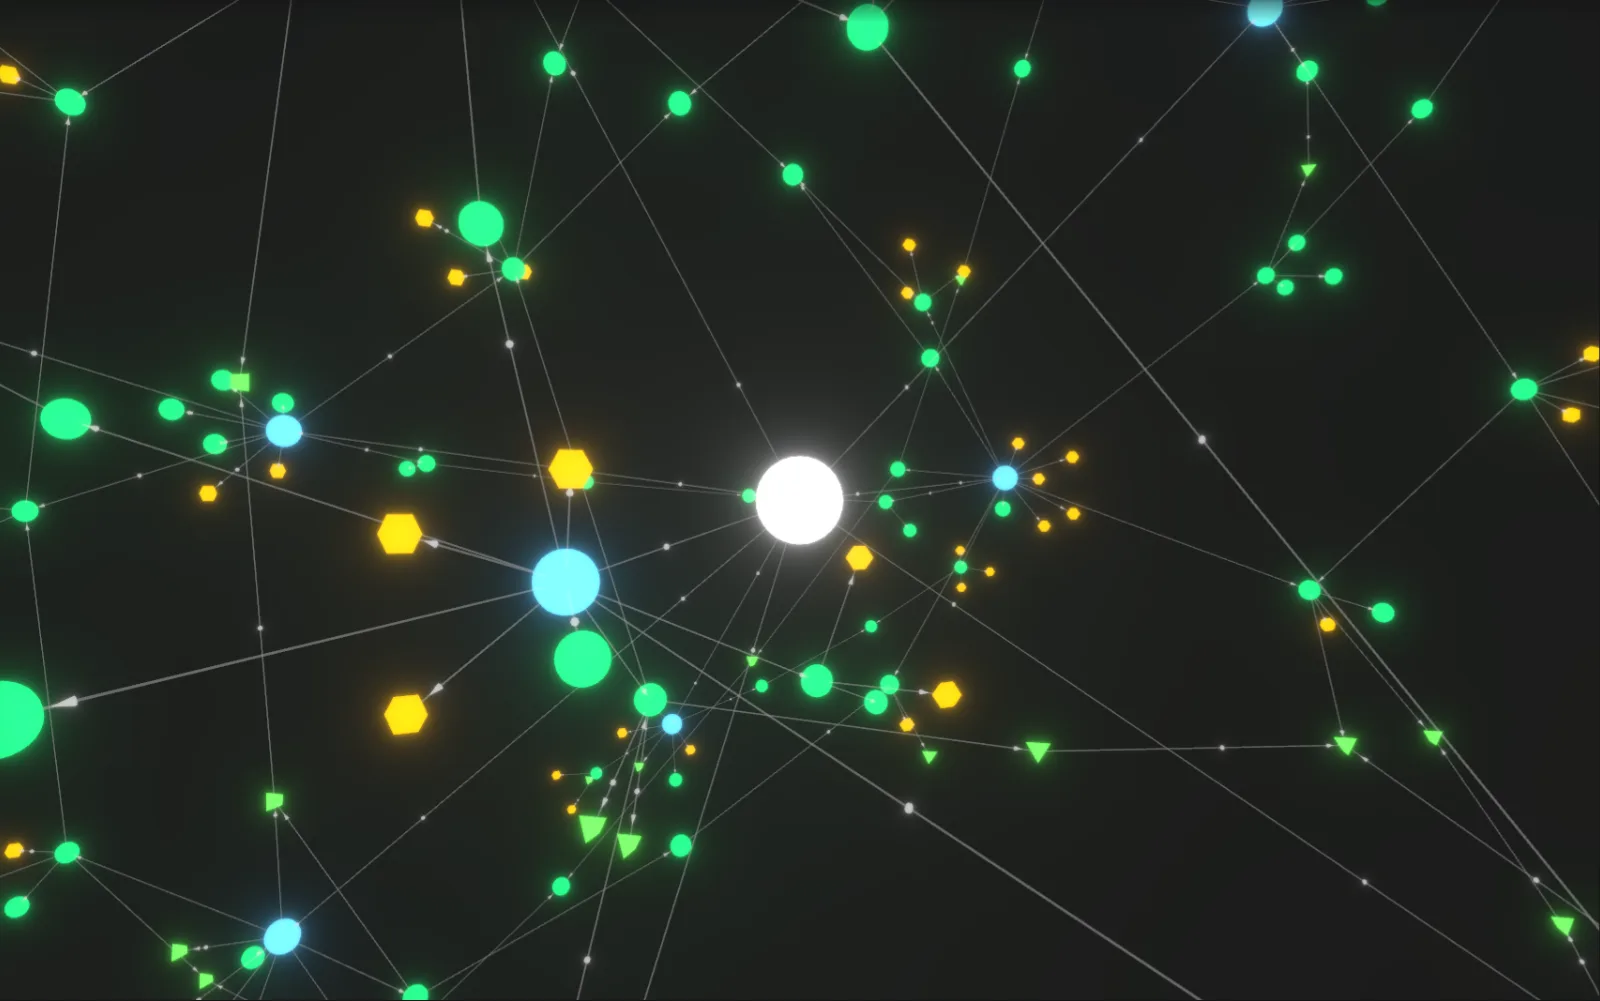
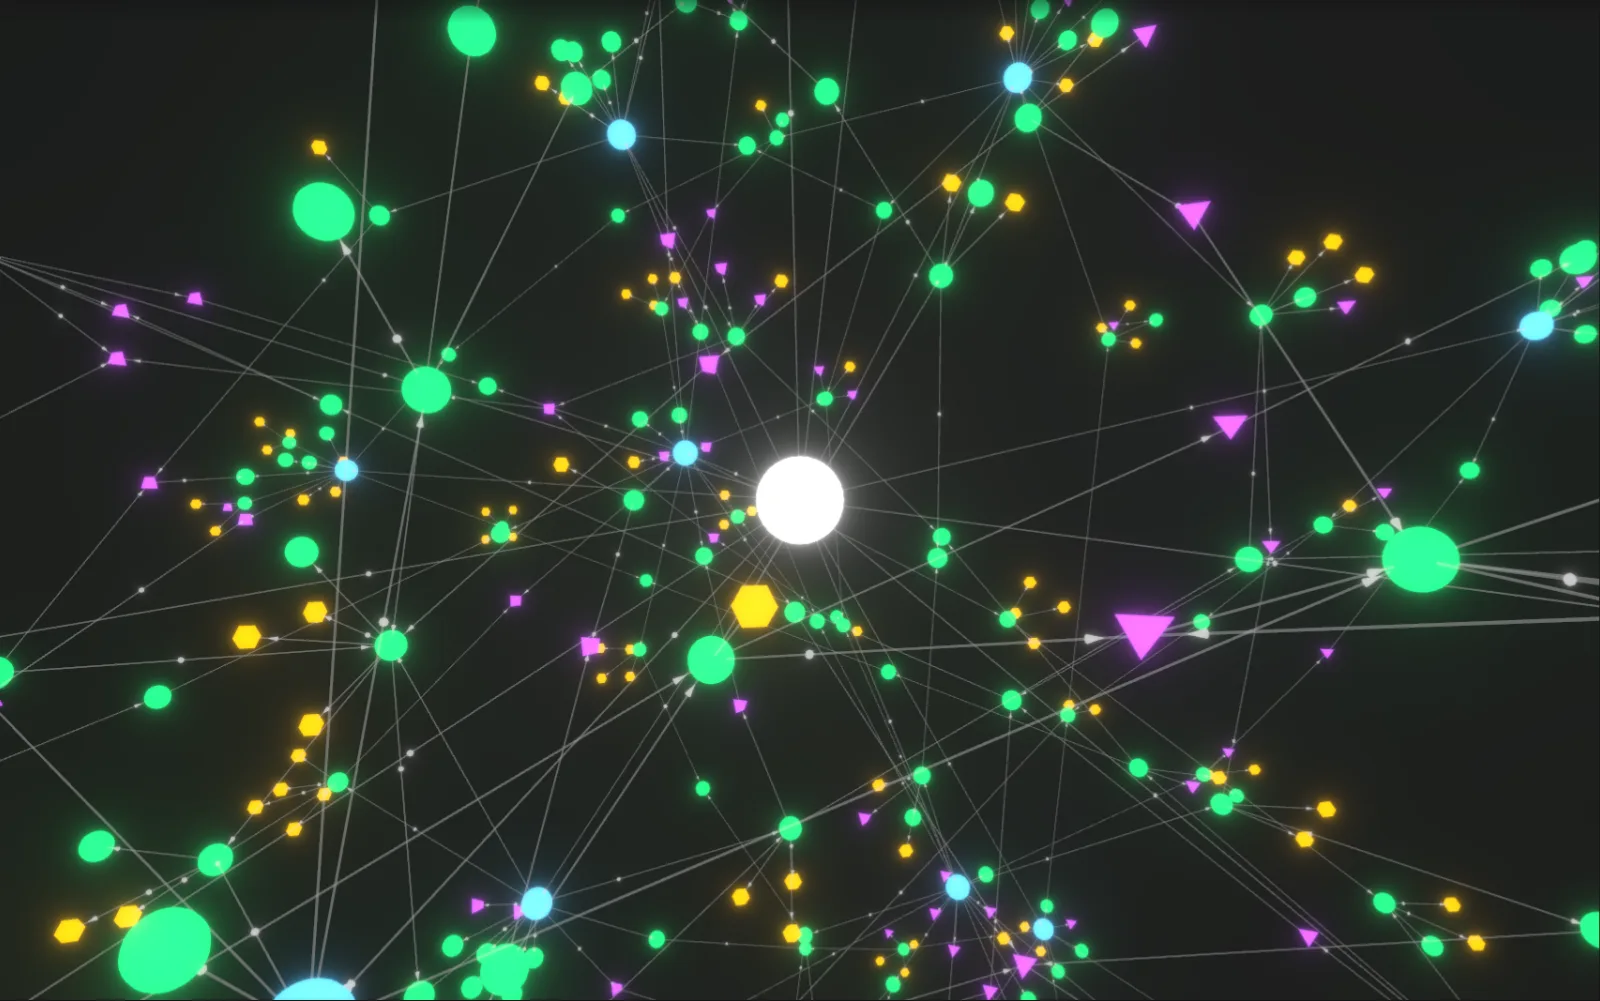
feat(torus): denser graph, purple signals, softer charge
16 root clusters with 10-20 children each, new seed, magenta signal nodes
and weaker charge; poster + OG image re-captured.

Claude-Session: https://claude.ai/code/session_01Vfbzc6RXiZzHMN87fvMCKc

diff --git a/src/lib/graph-data.ts b/src/lib/graph-data.ts
@@ -36,7 +36,7 @@ const NODE_STYLE: Record<NodeType, { color: string; val: number }> = {
 	hub: { color: "#ffffff", val: 22 },
 	root: { color: "#63cbff", val: 9 },
 	agent: { color: "#1fdb77", val: 6 },
-	signal: { color: "#69ff5c", val: 6 },
+	signal: { color: "#ce5cff", val: 6 },
 	user: { color: "#d946ef", val: 8 },
 	perm: { color: "#f2b907", val: 5 },
 };
@@ -61,7 +61,7 @@ function makeRng(seed: number): () => number {
 	};
 }
 
-export function generateGraph(seed = 1337): GraphData {
+export function generateGraph(seed = 6767): GraphData {
 	const rng = makeRng(seed);
 	const pick = <T>(arr: T[]): T => arr[Math.floor(rng() * arr.length)];
 	const rangeInt = (min: number, max: number) =>
@@ -85,13 +85,13 @@ export function generateGraph(seed = 1337): GraphData {
 	// The hub is pinned at the origin so it stays centered in the view.
 	const hub = "hub";
 	nodes.push({ id: hub, type: "hub", ...NODE_STYLE.hub, fx: 0, fy: 0, fz: 0 });
-	const rootCount = 9;
+	const rootCount = 16;
 
 	for (let r = 0; r < rootCount; r++) {
 		const root = node(`root-${r}`, "root");
 		link(hub, root, LINK_COLOR.allocation, 2, 0.006);
 
-		const childCount = rangeInt(8, 15);
+		const childCount = rangeInt(10, 20);
 		for (let c = 0; c < childCount; c++) {
 			const type = pick<NodeType>([
 				"agent",

diff --git a/src/components/canvas/scenes/torus-scene.tsx b/src/components/canvas/scenes/torus-scene.tsx
@@ -31,7 +31,7 @@ const PARTICLE_SPEED_SCALE = 0.18;
  * Force-simulation layout. Edit and hot-reload — the graph re-applies these and
  * reheats the sim so changes are visible (it re-settles, then freezes again).
  */
-const FORCE = { charge: -100, linkDistance: 42, center: 0.55 };
+const FORCE = { charge: -60, linkDistance: 42, center: 0.55 };
 
 /**
  * Torus hero contents: a force-directed graph approximating an on-chain agent
